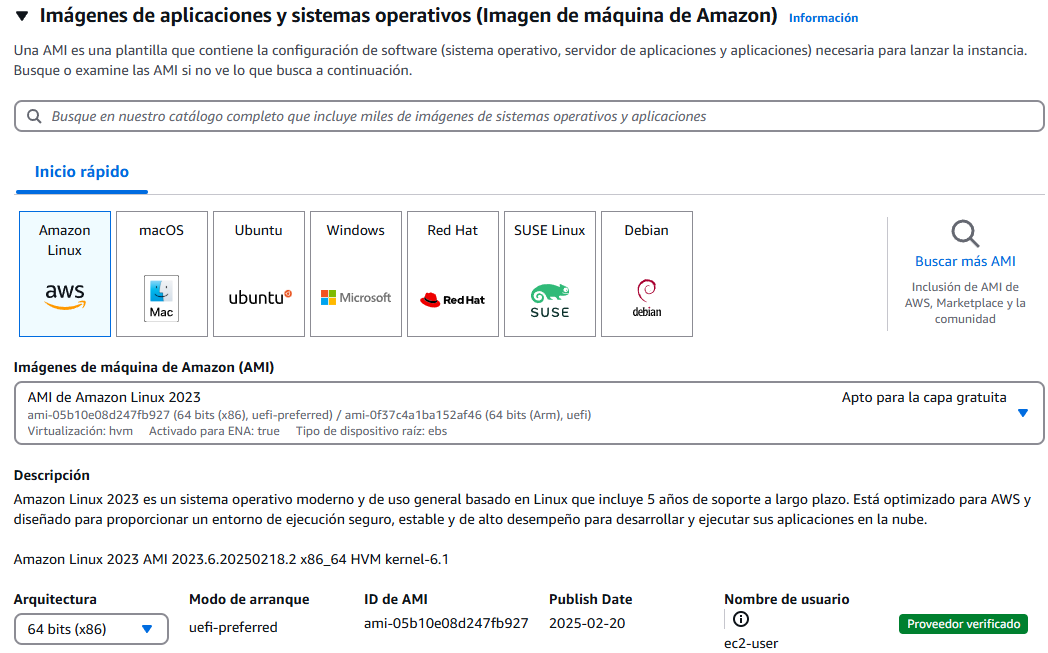
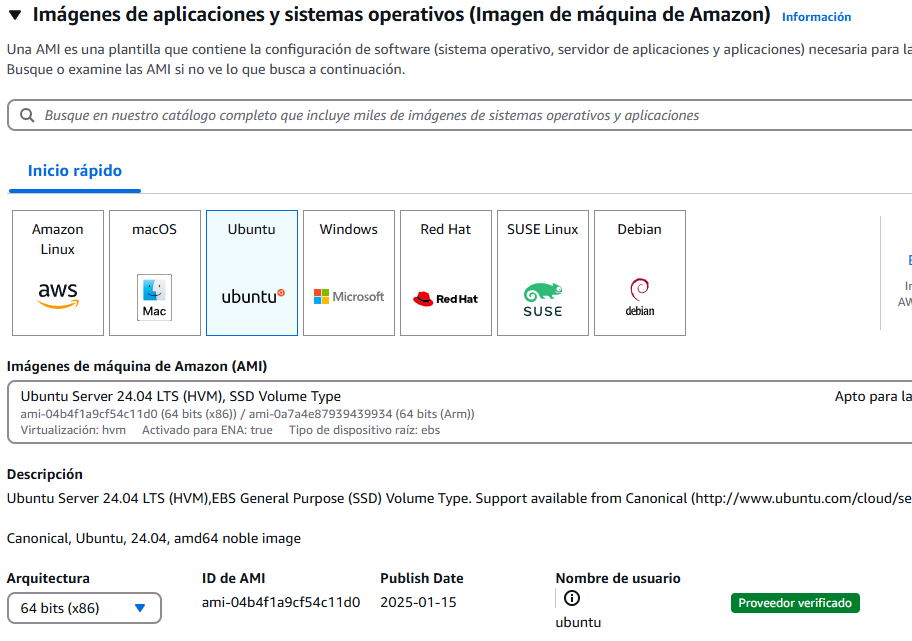
a

diff --git a/aws/vpc/readme.md b/aws/vpc/readme.md
@@ -22,11 +22,6 @@
   - [Creación de Tablas de Rutas](#creación-de-tablas-de-rutas)
   - [Creación de Grupos de Seguridad](#creación-de-grupos-de-seguridad)
   - [Lanzamiento de Instancias EC2](#lanzamiento-de-instancias-ec2)
-  - [Conexión a las Instancias EC2](#conexión-a-las-instancias-ec2)
-    - [Conexión SSH a la Instancia Pública](#conexión-ssh-a-la-instancia-pública)
-    - [Conexión desde la Instancia Pública a la Privada](#conexión-desde-la-instancia-pública-a-la-privada)
-    - [Conexión Directa a la Instancia Privada con Port Forwarding](#conexión-directa-a-la-instancia-privada-con-port-forwarding)
-  - [Limpieza de Recursos](#limpieza-de-recursos)
   - [Conclusión](#conclusión)
 
 ## Introducción
@@ -245,60 +240,38 @@ Siguiendo estos pasos, configurarás una VPC con subredes públicas y privadas, 
 ![alt text](image-48.png)
 
 2. Configura las siguientes opciones:
-- **AMI**: `Amazon Linux 2023`
+- **AMI**: `Ubuntu Server 24.04 LTS`
 
 ![alt text](image-56.png)
 ![alt text](image-57.png)
-
 
 - **Tipo de instancia**: `t2.medium`
 
 ![alt text](image-58.png)
 
-- **VPC**: `custom-vpc`
+- **Par de claves**: `vokey`
 
+![alt text](image-59.png)
 
+- **Configuraciones de red**:
 
-- **Subred**:
-    - `custom-subnet-public1-us-east-1a` (pública)
-    - `custom-subnet-private2-us-east-1b` (privada)
-- **Grupos de seguridad**:
-    - `ssh-sg` para acceso SSH desde fuera
-    - `default` para comunicación interna
-1. Asigna una IP pública a la instancia pública.
-2. Lanza las instancias.
+  - VPC: `custom-vpc`
 
----
+  - Subred: `proyecto-subnet-public1-us-east-1a`
 
-## Conexión a las Instancias EC2
+![alt text](image-60.png)
 
-### Conexión SSH a la Instancia Pública
-```sh
-ssh -i <clave-privada> ec2-user@<ip-publica>
-```
+- **Creamos una nueva regla del grupo de seguridad**
 
-### Conexión desde la Instancia Pública a la Privada
-```sh
-ssh ec2-user@<ip-privada>
-```
+![alt text](image-61.png)
 
-### Conexión Directa a la Instancia Privada con Port Forwarding
-1. En la máquina local, ejecuta:
-```sh
-ssh -i <clave-privada> -L 2022:<ip-privada>:22 ec2-user@<ip-publica>
-```
-2. En una nueva terminal, conéctate a la instancia privada:
-```sh
-ssh -i <clave-privada> ec2-user@localhost -p 2022
-```
+![alt text](image-62.png)
 
----
+![alt text](image-63.png)
 
-## Limpieza de Recursos
-1. **Eliminar instancias EC2**:
-   - Accede a **Amazon EC2** y termina las instancias.
-2. **Eliminar la VPC** (opcional):
-   - Accede a **Amazon VPC**, selecciona la VPC y elige **Delete VPC**.
+![alt text](image-64.png)
+
+![alt text](image-65.png)
 
 ---
 
